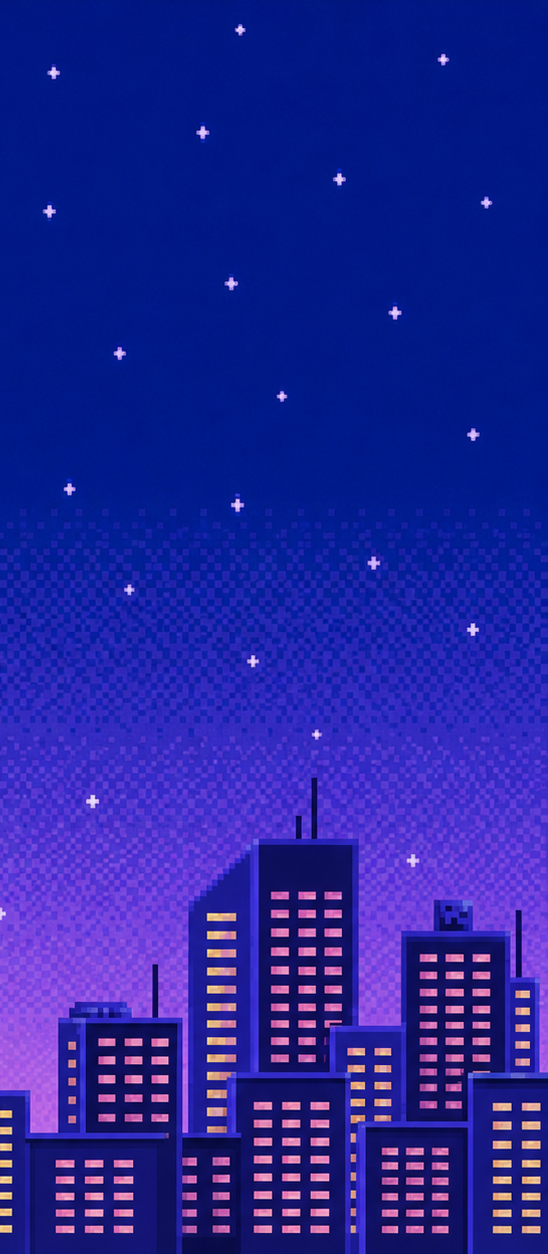
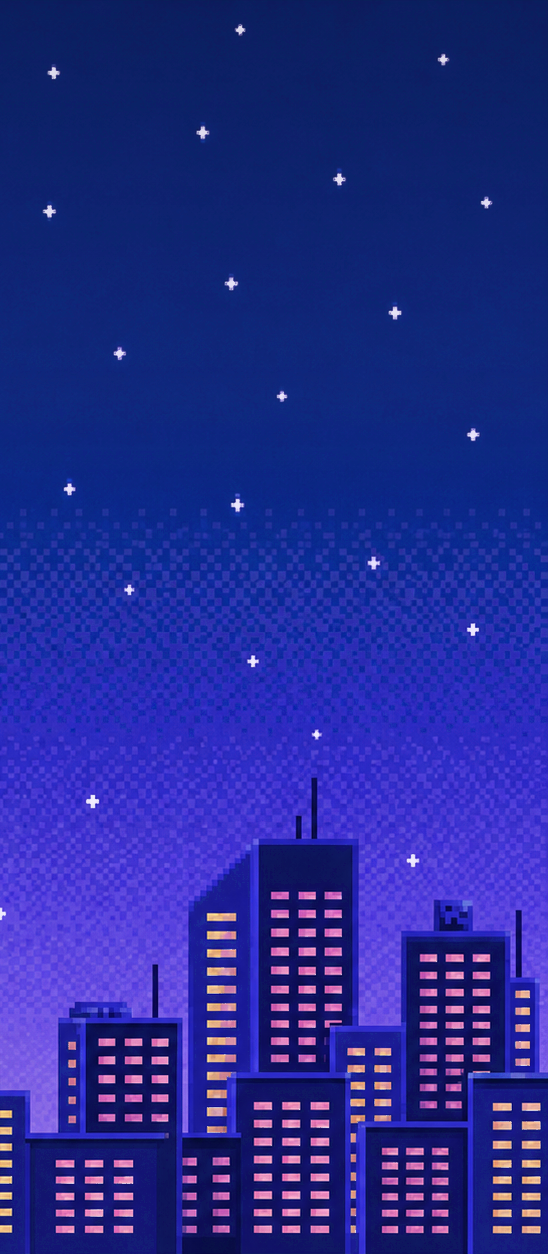
style(theme): 밤 테마 색 다듬기
- 밤 배경 사진: 보라·분홍기 줄임, 위쪽 하늘 채도 낮춤, 위에서 아래로 옅어지는 어둡기, 별 밝게
- 탐색·잠긴 카드 배경을 남색 검정으로
- 인사 보낸 카드 테두리·도장을 달빛 흰색으로
- 버튼 남색 채도 올림, 화면 배경 회색기 줄임
- 신고 제출 버튼, 목소리 등록 완료 체크, 사진 실패·거부 칸을 남색으로

diff --git a/src/components/discover/SwipeCard.tsx b/src/components/discover/SwipeCard.tsx
@@ -609,7 +609,7 @@ function useVoiceIntro(audioUrl: string | null | undefined) {
 }
 
 // 대화를 신청한 카드 테두리·도장 색 — 낮엔 분홍 노을 위에서도 띄는 핫핑크, 밤엔 진한 테마색.
-export const REQUESTED_PINK = isNight ? colors.primaryDark : "#E05C9E";
+export const REQUESTED_PINK = isNight ? "#F4F1E6" : "#E05C9E";
 
 const styles = StyleSheet.create({
     card: {
@@ -620,7 +620,7 @@ const styles = StyleSheet.create({
         alignItems: "center",
         borderWidth: 1,
         borderColor: "rgba(255,255,255,0.08)",
-        backgroundColor: "rgba(20,10,25,0.62)",
+        backgroundColor: isNight ? "rgba(8,12,30,0.62)" : "rgba(20,10,25,0.62)",
     },
     cover: {
         borderRadius: radii.lg,
@@ -754,7 +754,7 @@ const styles = StyleSheet.create({
     // 대화를 신청한 카드 — 핫핑크 굵은 테두리 + 은은한 빛 (iOS 그림자. 안드로이드 elevation 은
     // 반투명 바탕 카드에서 그림자가 비쳐 보여 쓰지 않는다).
     cardRequested: {
-        shadowColor: isNight ? colors.primary : REQUESTED_PINK,
+        shadowColor: REQUESTED_PINK,
         shadowOpacity: 0.7,
         shadowRadius: 14,
         shadowOffset: { width: 0, height: 0 },

diff --git a/src/constants/colors.ts b/src/constants/colors.ts
@@ -46,17 +46,17 @@ const dayColors = {
 };
 
 // 밤 테마 — 채도를 낮춘 슬레이트 블루 + 창문 불빛 같은 앰버 포인트.
-// 흰 배경 위 대비: primary 6.8:1, primaryMid 위 흰 글자 6.2:1.
+// 흰 배경 위 대비: primary 7.0:1, primaryMid 위 흰 글자 6.4:1.
 const nightColors: typeof dayColors = {
   ...dayColors,
-  primary: '#3E5C8A',
+  primary: '#325996',
   primaryLight: '#E1E6EE',
   primaryDark: '#263B5E',
-  primaryMid: '#46628F',
+  primaryMid: '#395F9C',
 
   secondary: '#9AAAC3',
 
-  background: '#F2F4F7',
+  background: '#F0F4F9',
   surface: '#E6EAF0',
   card: '#FAFBFC',
   cardAlt: '#EEF1F5',
@@ -67,7 +67,7 @@ const nightColors: typeof dayColors = {
   border: '#D9DEE6',
   borderSoft: '#E8EBF0',
 
-  like: '#B8862F',
+  like: '#325996',
 
   overlay: 'rgba(18,24,38,0.5)',
 
@@ -83,7 +83,7 @@ export const colors = isNight ? nightColors : dayColors;
 
 export const gradients = isNight
   ? {
-      primary: ['#7F93B5', '#3E5C8A'] as const,
+      primary: ['#7390C1', '#325996'] as const,
       blush: ['#F7F8FA', '#E6EAF0'] as const,
       glow: ['#9DB0CC', '#4A6390'] as const,
     }

diff --git a/src/app/(main)/(tabs)/profile.tsx b/src/app/(main)/(tabs)/profile.tsx
@@ -34,6 +34,7 @@ import { showAlert } from '@/stores/alertStore';
 import { usePhotoPreviewStore } from '@/stores/photoPreviewStore';
 import { usePendingPhotoUploadsStore } from '@/stores/pendingPhotoUploadsStore';
 import { colors, gradients, radii, shadows } from '@/constants/colors';
+import { isNight } from '@/constants/theme';
 import { fonts, fs } from '@/constants/fonts';
 import { calculateAge } from '@/utils/age';
 import { genderLabelKey } from '@/utils/gender';
@@ -1114,13 +1115,13 @@ const styles = StyleSheet.create({
     borderWidth: 1.5,
     borderColor: colors.like,
     borderStyle: 'solid',
-    backgroundColor: 'rgba(255,82,82,0.06)',
+    backgroundColor: isNight ? 'rgba(50,89,150,0.06)' : 'rgba(255,82,82,0.06)',
   },
   statusRejectedSlot: {
     borderWidth: 1.5,
     borderColor: colors.like,
     borderStyle: 'solid',
-    backgroundColor: 'rgba(255,82,82,0.12)',
+    backgroundColor: isNight ? 'rgba(50,89,150,0.12)' : 'rgba(255,82,82,0.12)',
   },
   statusOverlayText: {
     fontSize: fs(10),

diff --git a/src/components/moderation/ReportModal.tsx b/src/components/moderation/ReportModal.tsx
@@ -17,6 +17,7 @@ import { ApiRequestError } from '@/services/api';
 import { showAlert } from '@/stores/alertStore';
 import { ErrorText } from '@/components/ui/ErrorText';
 import { colors, radii, shadows } from '@/constants/colors';
+import { isNight } from '@/constants/theme';
 import { fonts, fs } from '@/constants/fonts';
 import { validateReportDescription } from '@/utils/validators';
 import { userFacingError } from '@/utils/errors';
@@ -329,7 +330,8 @@ const styles = StyleSheet.create({
     marginTop: 16,
     paddingVertical: 13,
     borderRadius: radii.pill,
-    backgroundColor: colors.error,
+    // 밤 테마는 다른 주요 버튼과 같은 남색.
+    backgroundColor: isNight ? colors.primary : colors.error,
     alignItems: 'center',
     justifyContent: 'center',
   },

diff --git a/src/components/discover/LockedCard.tsx b/src/components/discover/LockedCard.tsx
@@ -2,6 +2,7 @@ import { useEffect, useState, type ReactNode } from 'react';
 import { View, StyleSheet } from 'react-native';
 import { PlaylistCard } from '@/components/discover/SwipeCard';
 import { radii } from '@/constants/colors';
+import { isNight } from '@/constants/theme';
 import type { DiscoverCandidate } from '@/types';
 
 // 잠긴 카드 (탐색 한도 초과 / 받은 좋아요 미공개). 일반 카드와 똑같이 그리고
@@ -93,7 +94,7 @@ const styles = StyleSheet.create({
     overflow: 'hidden',
   },
   fallback: {
-    backgroundColor: 'rgba(20, 10, 25, 0.92)',
+    backgroundColor: isNight ? 'rgba(8, 12, 30, 0.92)' : 'rgba(20, 10, 25, 0.92)',
   },
   center: {
     justifyContent: 'center',
